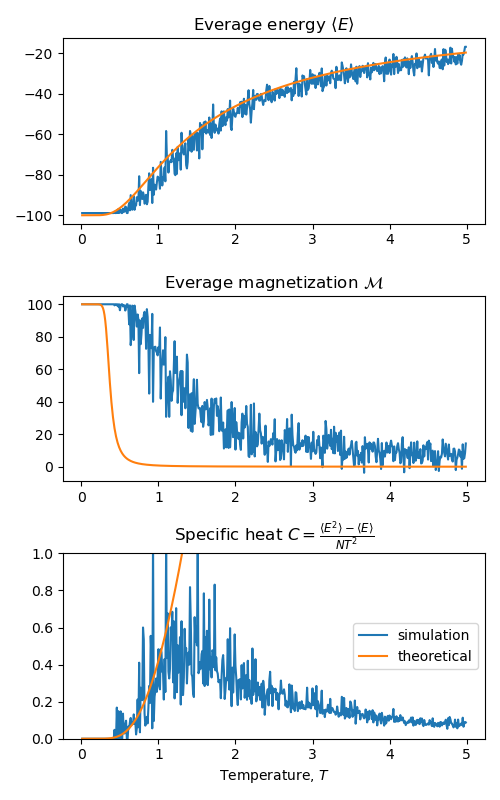
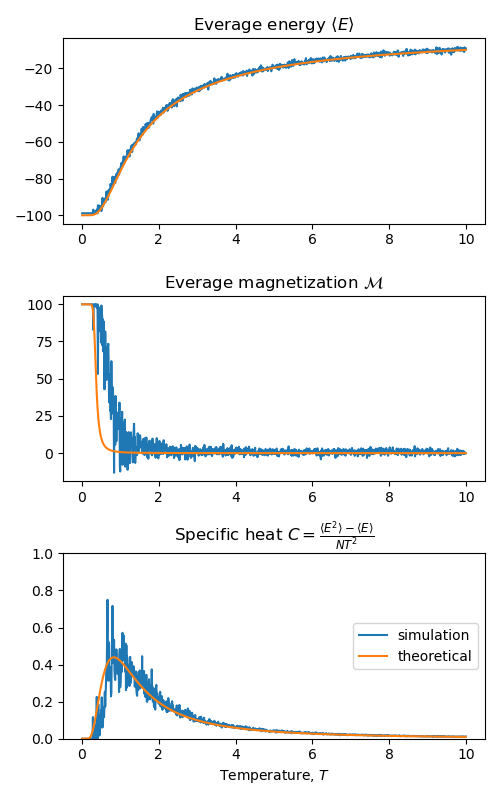
HW5 A and B

diff --git a/05/05_04AB.py b/05/05_04AB.py
@@ -10,10 +10,12 @@ from pylab import *
 from random import *
 
 N     = 100                                         # number of spins
-J     = 1.                        # Exchange energy (J>0 ferromagnetic)
+J     = 1                        # Exchange energy (J>0 ferromagnetic)
 k     = 1.                                            # Boltmann constant
 T     = 1.                                              # Temperature
 B     = .001
+
+
 
 state = array([+1]*N)                 # spin state: +1 up or -1 (down)
                                     # start with all spins up            
@@ -26,7 +28,7 @@ def energy (S):                                 # Method to calc energy
 
     return -J*sum + np.sum(S)*B
 
-def averages(T):
+def averages(T, A, Bmax):
 
     state = array([+1] * N)  # spin state: +1 up or -1 (down)
     # start with all spins up
@@ -38,9 +40,10 @@ def averages(T):
     M_avg = mag
     E_sq_avg = ES ** 2
 
-    step = 1
+    a = 0
+    b = 0
 
-    for j in range(1, 10000):
+    for j in range(1, (A+Bmax)*100):
         r = int(N * random());  # randomly choose which spin to flip
         state[r] *= -1  # temporarily flip that spin
         #    ET = energy(state)             # finds energy of the test config.
@@ -53,16 +56,24 @@ def averages(T):
         if p < random():  # reject change
             state[r] *= -1  # go back and keep previous energy
         else:
-            step += 1
+            a += 1
             ES = ET  # update energy and magnetization
             mag += deltamag
-            E_avg = (E_avg * (step - 1) + ES) / step
-            M_avg = (M_avg * (step - 1) + mag) / step
-            E_sq_avg = (E_sq_avg * (step - 1) + ES * ES) / step
+            if a > A:
+                b +=1
+                if b > Bmax: break
+                E_avg = (E_avg * (b - 1) + ES) / b
+                M_avg = (M_avg * (b - 1) + mag) / b
+                E_sq_avg = (E_sq_avg * (b - 1) + ES * ES) / b
+            else:
+                E_avg = ES
+                M_avg = mag
+                E_sq_avg = ES ** 2
+
 
     C = (E_sq_avg - E_avg ** 2) / (N * T ** 2)
 
-    return E_avg, M_avg, E_sq_avg, C
+    return E_avg, M_avg, E_sq_avg, C, b
 
 
 E_avg = []
@@ -70,45 +81,61 @@ M_avg = []
 E_sq_avg = []
 C = []
 
+E_avg_r = []
+M_avg_r = []
+E_sq_avg_r = []
+C_r = []
+
 E_theor = []
 M_theor = []
 C_theor = []
 
 
 T = []
+A = 5000
 
-for t in np.arange(0.01, 10., 0.01):
+for t in np.arange(0.01, 5., 0.01):
 
-    E, M, E_sq, c = averages(t)
+    E, M, E_sq, c, b0 = averages(t, A=0, Bmax=1000 )
+    Er, Mr, E_sqr, cr, b = averages(t, A=10000, Bmax=1000 )
 
     E_avg.append(E)
     M_avg.append(M)
     C.append(c)
 
+    E_avg_r.append(Er)
+    M_avg_r.append(Mr)
+    C_r.append(cr)
+
     E_theor.append(-N*J*tanh(J/(k*t)))
     M_theor.append(N*exp(J/k/t)*sinh(B/k/t)/(sqrt(exp(2*J/k/t)*sinh(B/k/t)**2+exp(-2*J/k/t))))
     C_theor.append(((J/(k*t))/cosh(J/(k*t)))**2)
-    #C_theor.append(((1/ t) / cosh(1 / t)) ** 2)
 
     T.append(t)
+
+print('Relaxation of A= %1d steps' % A)
+print('Averaging over B= %1d steps' % b)
 
 
 figure(figsize=(5,8))
 subplot(3,1,1)
-plot(T, E_avg)
+plot(T, E_avg, alpha=.7)
+plot(T, E_avg_r, alpha=.7)
 plot(T, E_theor)
 title(r'Everage energy $\langle E \rangle$')
 subplot(3,1,2)
-plot(T, M_avg)
+plot(T, M_avg, alpha=.7)
+plot(T, M_avg_r, alpha=.7)
 plot(T, M_theor)
 title(r'Everage magnetization $\mathcal{M}$')
 subplot(3,1,3)
-plot(T, C, label='simulation')
+plot(T, C, label='sim w/o relax', alpha=.7)
+plot(T, C_r, label='sim w relax A='+str(A), alpha=.7)
 plot(T, C_theor, label='theoretical')
 title(r'Specific heat $C = \frac{\langle E^2 \rangle - \langle E \rangle}{N T^2}$')
 xlabel(r'Temperature, $T$')
 ylim(0,1)
 legend(loc='center right')
 tight_layout()
-savefig('05_04.png')
+savefig('05_04AB.png')
 show()
